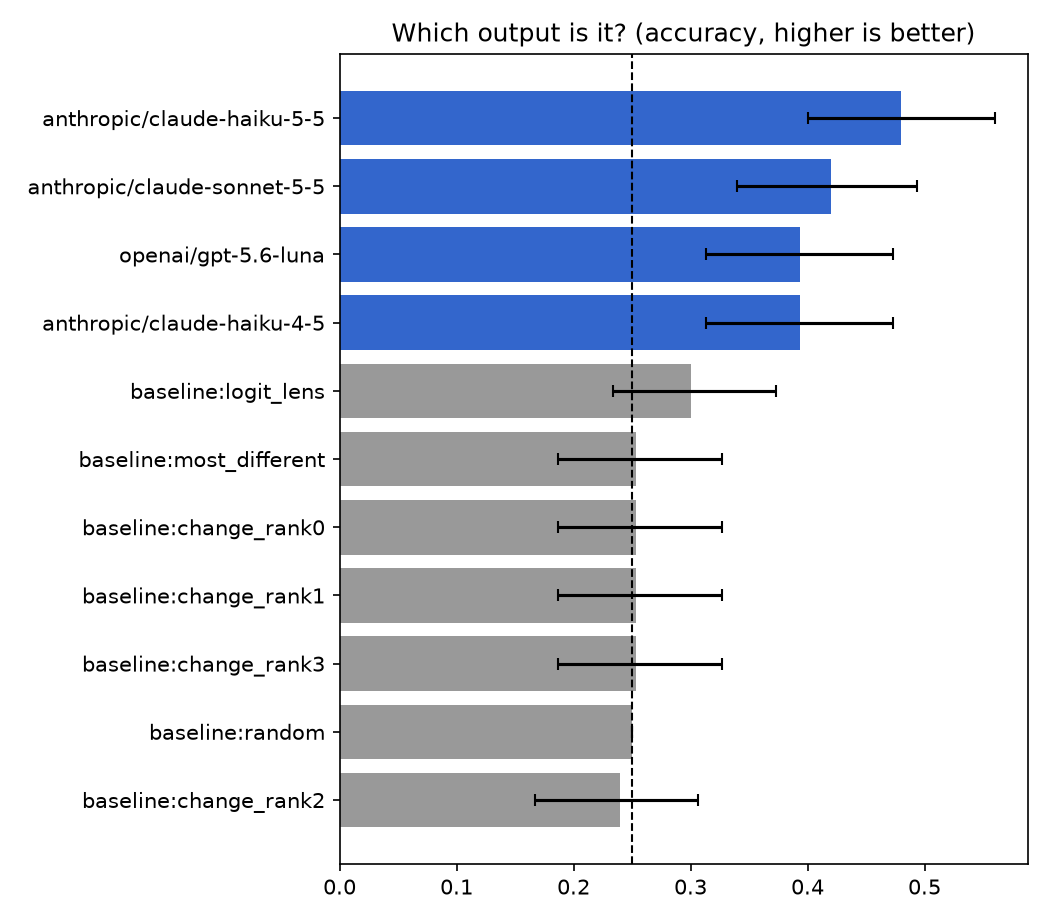
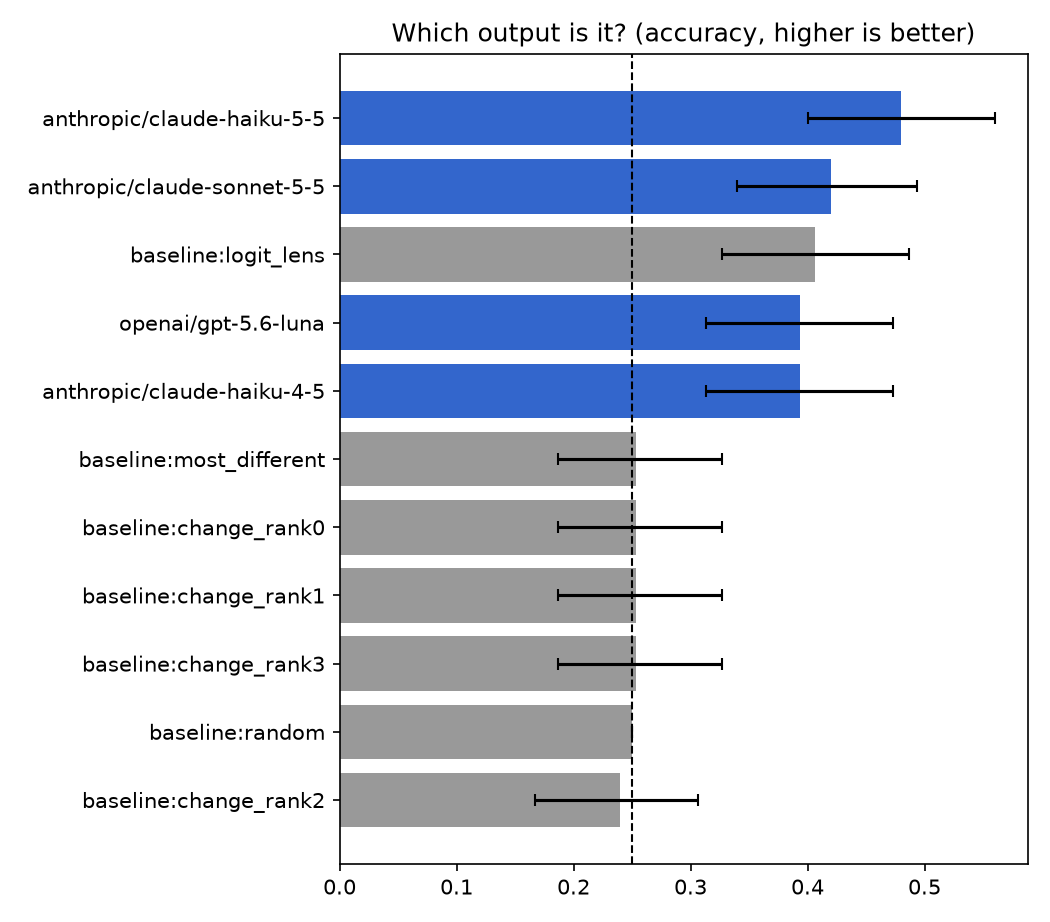
Make the logit_lens baseline dose-sign aware (0.30 -> 0.41) and rewrite results around it; add model-vs-lookup agreement

diff --git a/scripts/analyze_results.py b/scripts/analyze_results.py
@@ -12,6 +12,7 @@ import statistics as st
 
 import numpy as np
 
+from neuronbench.baselines import choice_logit_lens
 from neuronbench.harbor_tasks import safe_name
 
 SHORT = {
@@ -126,6 +127,18 @@ def main():
     print("  with 95% bootstrap CIs (lens token in a reply / not):")
     for m in ms:
         print(f"  {m}:", *[f"{acc(m, ids):.2f} {ci(m, ids)}" for ids in (ov, nov)])
+    lens = {i: choice_logit_lens(items[i]) for i in ch}
+    hit = lambda ids: st.mean(lens[i] == items[i]["answer"]["letter"] for i in ids)
+    print(f"  logit_lens baseline (dose-sign aware): all {hit(ch):.2f}, lens token in a reply {hit(ov):.2f}, "
+          f"not {hit(nov):.2f}")
+    hits = [i for i in ch if lens[i] == items[i]["answer"]["letter"]]
+    miss = [i for i in ch if i not in hits]
+    print(f"  model vs logit_lens: same pick | acc where the lookup is right (n={len(hits)}) | where it is wrong "
+          f"(n={len(miss)}) | either right")
+    for m in ms:
+        same = st.mean(ans[m][i][0] == lens[i] for i in ch)
+        either = st.mean(ans[m][i][2]["choice_acc"] > 0 or i in hits for i in ch)
+        print(f"  {m}: {same:.2f} | {acc(m, hits):.2f} | {acc(m, miss):.2f} | {either:.2f}")
 
     print("\n== rank of the chosen option by change from the unsteered reply (0 least .. 3 most)")
     for m in ms + ["truth"]:

diff --git a/neuronbench/baselines.py b/neuronbench/baselines.py
@@ -3,7 +3,8 @@
 choice:
 - random: expected accuracy 0.25.
 - most_different: pick the reply least similar to the unsteered reply. Well above 0.25 means the distractors leak.
-- logit_lens: pick the reply containing the most of the neuron's logit-lens "up" tokens (case-insensitive).
+- logit_lens: pick the reply with the largest gain, over the unsteered reply, in the logit-lens tokens the dose pushes
+  toward ("up" tokens for a positive dose, "down" tokens for a negative one), case-insensitive.
 null:
 - always_null / always_real: p = 0 / p = 1.
 - base_rate: p = share of REAL items among the other items (leave-one-out).
@@ -37,8 +38,8 @@ def choice_change_rank(item: dict, rank: int) -> str:
 
 
 def choice_logit_lens(item: dict) -> str:
-    toks = [_norm_tok(t) for t in (item["evidence"].get("logit_lens") or {}).get("up", [])]
-    toks = [t for t in toks if len(t) >= 2]
+    side = "up" if item["payload"]["dose"] > 0 else "down"
+    toks = [t for t in (_norm_tok(t) for t in (item["evidence"].get("logit_lens") or {}).get(side, [])) if t]
     base = item["payload"]["baseline"].lower()
 
     def score(text: str) -> int:

diff --git a/README.md b/README.md
@@ -30,6 +30,10 @@ its container: the verifier runs in a separate container and only receives `/app
 - `evidence_logreg` fits a cross-validated logistic regression on the numeric evidence fields. If it does well, the
   evidence leaks the label.
 - Items are stratified by effect size (gne `rank` vocabulary mass), and results are reported per quartile.
+- The `logit_lens` baseline is the obvious non-AI reading of the evidence: pick the reply that gained the most
+  logit-lens tokens on the side the dose pushes toward ("up" for a positive dose, "down" for a negative one).
+  `scripts/ceiling_baselines.py` tries stronger variants (fuzzy subword matching, script matching, a cross-validated
+  learned scorer over text features); none beats it by more than a point.
 
 ## Layout
 
@@ -158,8 +162,7 @@ Full tables: `results/results.md`, split by random-draw vs hand-picked neurons i
 | Claude Sonnet 5.5 | 0.42 [0.34, 0.49] | **0.247** [0.233, 0.261] |
 | GPT-5.6-luna | 0.39 [0.31, 0.47] | 0.308 [0.256, 0.360] |
 | Claude Haiku 4.5 | 0.39 [0.31, 0.47] | 0.294 [0.244, 0.344] |
-| best shortcut: sign-aware lens lookup (`scripts/ceiling_baselines.py`) | 0.41 [0.34, 0.49] | |
-| shortcut: plain logit lens | 0.30 [0.23, 0.37] | |
+| best shortcut: logit-lens lookup (dose-sign aware) | 0.41 [0.33, 0.49] | |
 | best shortcut: base rate / evidence logreg | | 0.255 / 0.255 |
 | random / always-real | 0.25 | 0.49 |
 
@@ -167,8 +170,8 @@ Full tables: `results/results.md`, split by random-draw vs hand-picked neurons i
 ![null Brier](results/null_brier.png)
 
 **"Which output is it?", split by whether the answer can be read off the text.** In 50 of the 150 items a logit-lens
-token (≥ 3 letters) literally occurs in a candidate reply; there, "pick the reply that contains a lens token" already
-scores 54%. The other 100 items need an actual prediction from the evidence, and that is the harder test:
+token (≥ 3 letters) literally occurs in a candidate reply; there, the logit-lens lookup already scores 64%. The other
+100 items need an actual prediction from the evidence, and that is the harder test:
 
 | system | lens token in a reply (n = 50) | no lens token in any reply (n = 100) |
 |---|---|---|
@@ -176,19 +179,33 @@ scores 54%. The other 100 items need an actual prediction from the evidence, and
 | Claude Sonnet 5.5 | 0.58 [0.44, 0.72] | 0.34 [0.25, 0.43] |
 | GPT-5.6-luna | 0.54 [0.40, 0.68] | 0.32 [0.23, 0.41] |
 | Claude Haiku 4.5 | 0.52 [0.38, 0.66] | 0.33 [0.24, 0.42] |
-| lens-token lookup baseline | 0.54 | 0.25 |
-| sign-aware fuzzy lens lookup | 0.60 [0.46, 0.74] | 0.32 [0.23, 0.41] |
+| logit-lens lookup baseline | **0.64** | 0.29 |
 | random | 0.25 | 0.25 |
 
-Where the lookup works, models do about what it does. Where it doesn't, only Haiku 5.5's interval clears chance.
+Where the lookup works, it does as well as every model or better. Where it doesn't, only Haiku 5.5's interval clears
+chance.
+
+**Models don't even apply the lookup consistently.** Each model picks the same reply as the lookup on only 31–35% of
+items, and solves only 51–52% of the 61 items the lookup gets right:
+
+| system | same pick as the lookup | accuracy where the lookup is right (n = 61) | where it is wrong (n = 89) |
+|---|---|---|---|
+| Claude Haiku 5.5 | 0.31 | 0.52 | **0.45** |
+| Claude Sonnet 5.5 | 0.33 | 0.52 | 0.35 |
+| GPT-5.6-luna | 0.35 | 0.52 | 0.30 |
+| Claude Haiku 4.5 | 0.35 | 0.51 | 0.31 |
+
+So the models solve a different set of items from the lookup rather than a superset of it. The evidence supports
+more than any single system extracts: "the model or the lookup is right" holds on 59–67% of items.
 
 Headline findings (full analysis with failure modes in `results/analysis.md`; numbers from `scripts/analyze_results.py`):
 
-- **Only Haiku 5.5 clearly beats the best shortcut on "Which output is it?".** A sign-aware lens lookup (down tokens
-  for negative doses, punctuation kept) scores 41%; Haiku 5.5 gets 48%, Sonnet 5.5 42%, GPT-5.6-luna and Haiku 4.5 39%.
-  Not in size order.
-- **The skill is mostly reading the neuron's vocabulary off the text.** On the 50 items where a logit-lens token
-  literally occurs in a candidate reply, models score 52–62%; on the other 100, 32–41%. Large pushes (change ≥ 0.8
+- **Frontier agents do no better than a word lookup on "Which output is it?"** Models score 39–48% (chance 25%); a
+  dose-sign-aware logit-lens lookup scores 41% [33, 49]. GPT-5.6-luna and Haiku 4.5 (39%) are below it, Sonnet 5.5
+  (42%) ties it, and only Haiku 5.5 (48%) is ahead, within the intervals. Not in size order.
+- **They also don't use the evidence consistently.** Models miss about half the items the lookup solves, and
+  agree with it on only 31–35% of picks. On the 50 items where a logit-lens token literally occurs in a candidate
+  reply, the lookup gets 64% and models 52–62%. On the other 100, the lookup gets 29% and models 32–41%. Large pushes (change ≥ 0.8
   from the unsteered reply) are solved 51–67%, smaller ones 31–40%.
 - **Nobody can tell which neurons matter.** "Real or null?" AUC is 0.52–0.57 for all four; the Brier spread
   (0.247–0.308) is calibration only. All models set their probability by the logit-lens peak z-score, which has

diff --git a/results/analysis.md b/results/analysis.md
@@ -5,13 +5,16 @@ Numbers come from `scripts/analyze_results.py` (`results/analysis.txt`) and from
 
 ## Headline results
 
-1. **Only Haiku 5.5 clearly beats the best agent-free shortcut on "Which output is it?".** The strongest text-only
-   heuristic (`scripts/ceiling_baselines.py`: pick the reply containing the lens tokens the dose actually pushes, with
-   fuzzy matching) scores 41% [34, 49]; the plain logit-lens baseline 30%; chance 25%. Models: Haiku 5.5 48% > Sonnet
-   5.5 42% > GPT-5.6-luna 39% = Haiku 4.5 39%. Three of the four are at the shortcut's level, and not in size order.
+1. **No model clearly beats a word lookup on "Which output is it?"** 39–48% vs 25% chance and 41% [33, 49] for a
+   dose-sign-aware logit-lens lookup (pick the reply that gained the most "up" tokens for a positive dose, "down"
+   tokens for a negative one). Order: Haiku 5.5 (48%) > Sonnet 5.5 (42%) > lookup (41%) > GPT-5.6-luna (39%) =
+   Haiku 4.5 (39%). Not ordered by model size or price. Stronger automatic variants (`scripts/ceiling_baselines.py`:
+   fuzzy subword, script, cross-validated learned scorer) top out at 41%.
 2. **Most of that skill is reading the neuron's vocabulary off the text.** In 50 of 150 items a logit-lens token
    (≥3 letters) literally occurs in one of the candidate replies. On those items models score 52–62%; on the other
-   100 they score 32–41%. A trivial "pick the reply containing a lens token" baseline gets 35%. Beyond token
+   100 they score 32–41%. The lookup gets 64% and 29% on the same two subsets. Yet models pick the same reply as the
+   lookup on only 31–35% of items and solve only 51–52% of the 61 items it gets right, so they apply the evidence
+   inconsistently rather than as a superset of the lookup ("model or lookup right": 59–67%). Beyond token
    matching, the only other thing that helps is a large effect: replies that moved ≥0.8 from the unsteered one are
    solved 51–67%, replies that moved less 31–40%.
 3. **Nobody can tell which neurons matter.** On "Real or null?" discrimination is at chance for all four

diff --git a/results/results_by_selection.md b/results/results_by_selection.md
@@ -1,7 +1,7 @@
 | system | task | metric | value | 95% CI | n | selection |
 |---|---|---|---|---|---|---|
+| baseline:logit_lens | choice | accuracy | 0.562 | [0.312, 0.812] | 16/16 | picked |
 | anthropic/claude-haiku-4-5 | choice | accuracy | 0.562 | [0.312, 0.812] | 16/16 | picked |
-| baseline:logit_lens | choice | accuracy | 0.500 | [0.250, 0.750] | 16/16 | picked |
 | openai/gpt-5.6-luna | choice | accuracy | 0.438 | [0.188, 0.688] | 16/16 | picked |
 | baseline:change_rank1 | choice | accuracy | 0.375 | [0.125, 0.625] | 16/16 | picked |
 | anthropic/claude-sonnet-5-5 | choice | accuracy | 0.375 | [0.125, 0.625] | 16/16 | picked |
@@ -13,9 +13,9 @@
 | baseline:change_rank2 | choice | accuracy | 0.125 | [0.000, 0.312] | 16/16 | picked |
 | anthropic/claude-haiku-5-5 | choice | accuracy | 0.500 | [0.410, 0.590] | 134/134 | random |
 | anthropic/claude-sonnet-5-5 | choice | accuracy | 0.425 | [0.343, 0.507] | 134/134 | random |
+| baseline:logit_lens | choice | accuracy | 0.388 | [0.313, 0.470] | 134/134 | random |
 | openai/gpt-5.6-luna | choice | accuracy | 0.388 | [0.306, 0.470] | 134/134 | random |
 | anthropic/claude-haiku-4-5 | choice | accuracy | 0.373 | [0.299, 0.455] | 134/134 | random |
-| baseline:logit_lens | choice | accuracy | 0.276 | [0.201, 0.351] | 134/134 | random |
 | baseline:change_rank0 | choice | accuracy | 0.261 | [0.187, 0.336] | 134/134 | random |
 | baseline:change_rank2 | choice | accuracy | 0.254 | [0.179, 0.328] | 134/134 | random |
 | baseline:random | choice | accuracy | 0.250 | [0.250, 0.250] | 134/134 | random |

diff --git a/results/results.md b/results/results.md
@@ -2,9 +2,9 @@
 |---|---|---|---|---|---|
 | anthropic/claude-haiku-5-5 | choice | accuracy | 0.480 | [0.400, 0.560] | 150/150 |
 | anthropic/claude-sonnet-5-5 | choice | accuracy | 0.420 | [0.340, 0.493] | 150/150 |
+| baseline:logit_lens | choice | accuracy | 0.407 | [0.327, 0.487] | 150/150 |
 | openai/gpt-5.6-luna | choice | accuracy | 0.393 | [0.313, 0.473] | 150/150 |
 | anthropic/claude-haiku-4-5 | choice | accuracy | 0.393 | [0.313, 0.473] | 150/150 |
-| baseline:logit_lens | choice | accuracy | 0.300 | [0.233, 0.373] | 150/150 |
 | baseline:most_different | choice | accuracy | 0.253 | [0.187, 0.327] | 150/150 |
 | baseline:change_rank0 | choice | accuracy | 0.253 | [0.187, 0.327] | 150/150 |
 | baseline:change_rank1 | choice | accuracy | 0.253 | [0.187, 0.327] | 150/150 |
